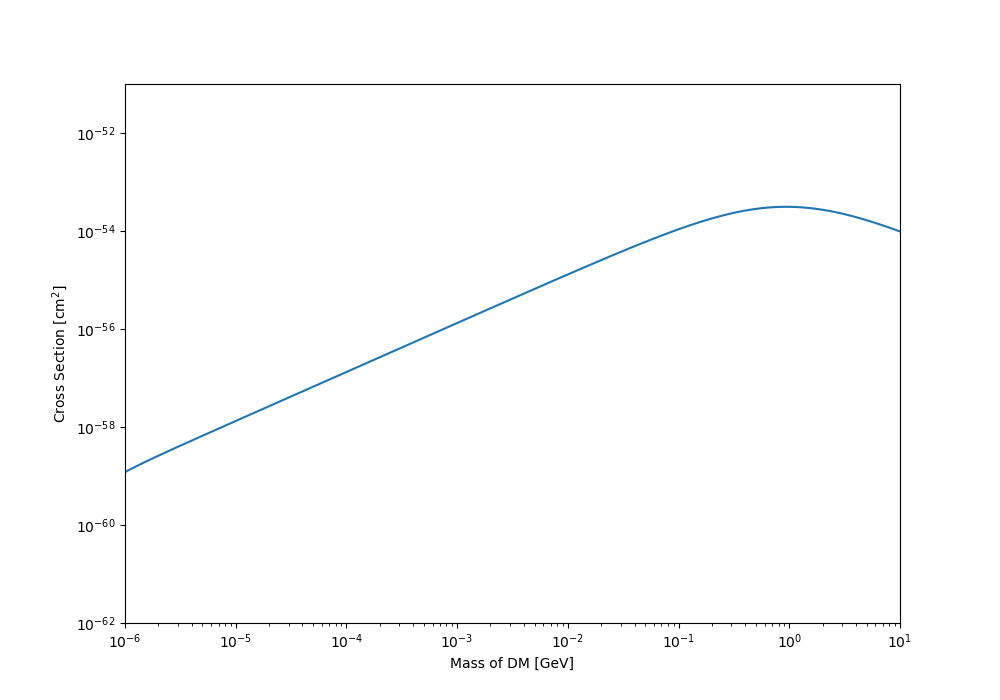
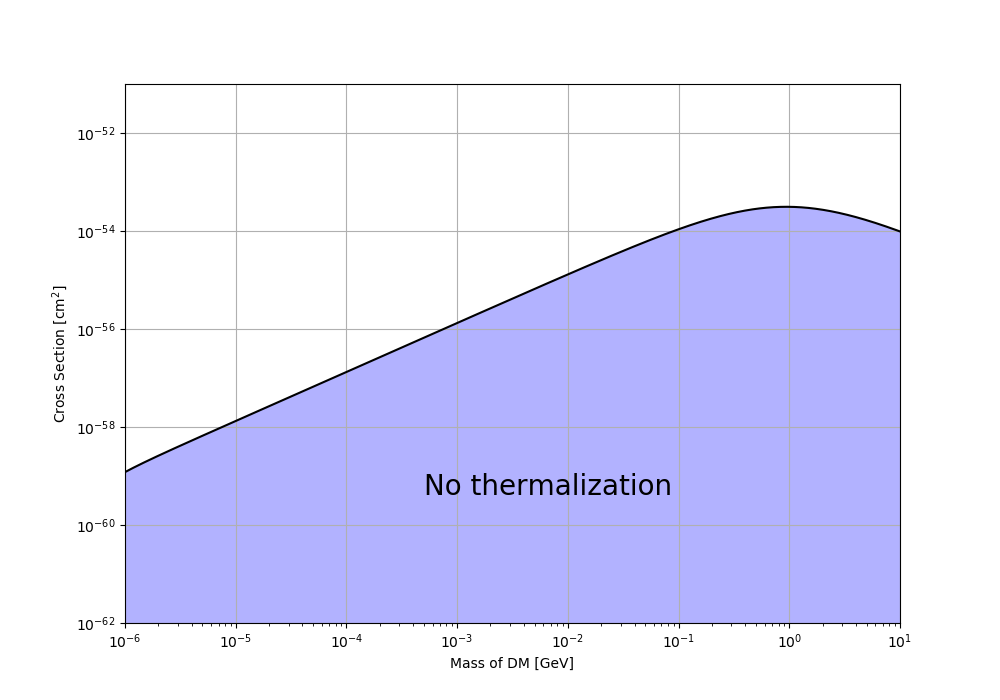
g

diff --git a/Bertoni Code/bertoni_analytic.py b/Bertoni Code/bertoni_analytic.py
@@ -27,7 +27,6 @@ def cross_section(DM_mass):
 
     return cross_section_GeV2 * (1/(1.97e7) *1e-9)**2 * 1e4
 
-print(cross_section(1))
 
 def make_plot_cross_section():
     mass_range = np.logspace(-6, 1, num = 1000)
@@ -38,10 +37,13 @@ def make_plot_cross_section():
         cross_section_array = np.append(cross_section_array, dummy)
 
     fig, ax1 = plt.subplots(figsize = (10, 7), dpi = 100)
-    ax1.loglog(mass_range, cross_section_array)
+    ax1.loglog(mass_range, cross_section_array, color='black')
     ax1.axis([1e-6, 1e1, 1e-62, 1e-51])
     ax1.set(xlabel = r'Mass of DM [GeV]', ylabel = r'Cross Section [cm$^2$]')
+    ax1.fill_between(mass_range, cross_section_array, facecolor='blue', alpha=0.3)
+    ax1.grid()
+    ax1.text(0.5e-3, 4e-60, 'No thermalization', fontsize=20)
     plt.savefig('Cross Section plot - Analytic.png')
-    plt.show()
+
 
 make_plot_cross_section()

diff --git a/Bertoni Code/bertoni_numerical.py b/Bertoni Code/bertoni_numerical.py
@@ -48,7 +48,7 @@ def numerical_cross_section(DM_mass):
 
 
 def make_plot_numeric_cross_section():
-    mass_range = np.logspace(-6, 1, num = 1000)
+    mass_range = np.logspace(-6, 1, num = 500)
     numerical_cross_section_array = np.empty(0)
 
     for i in mass_range:
